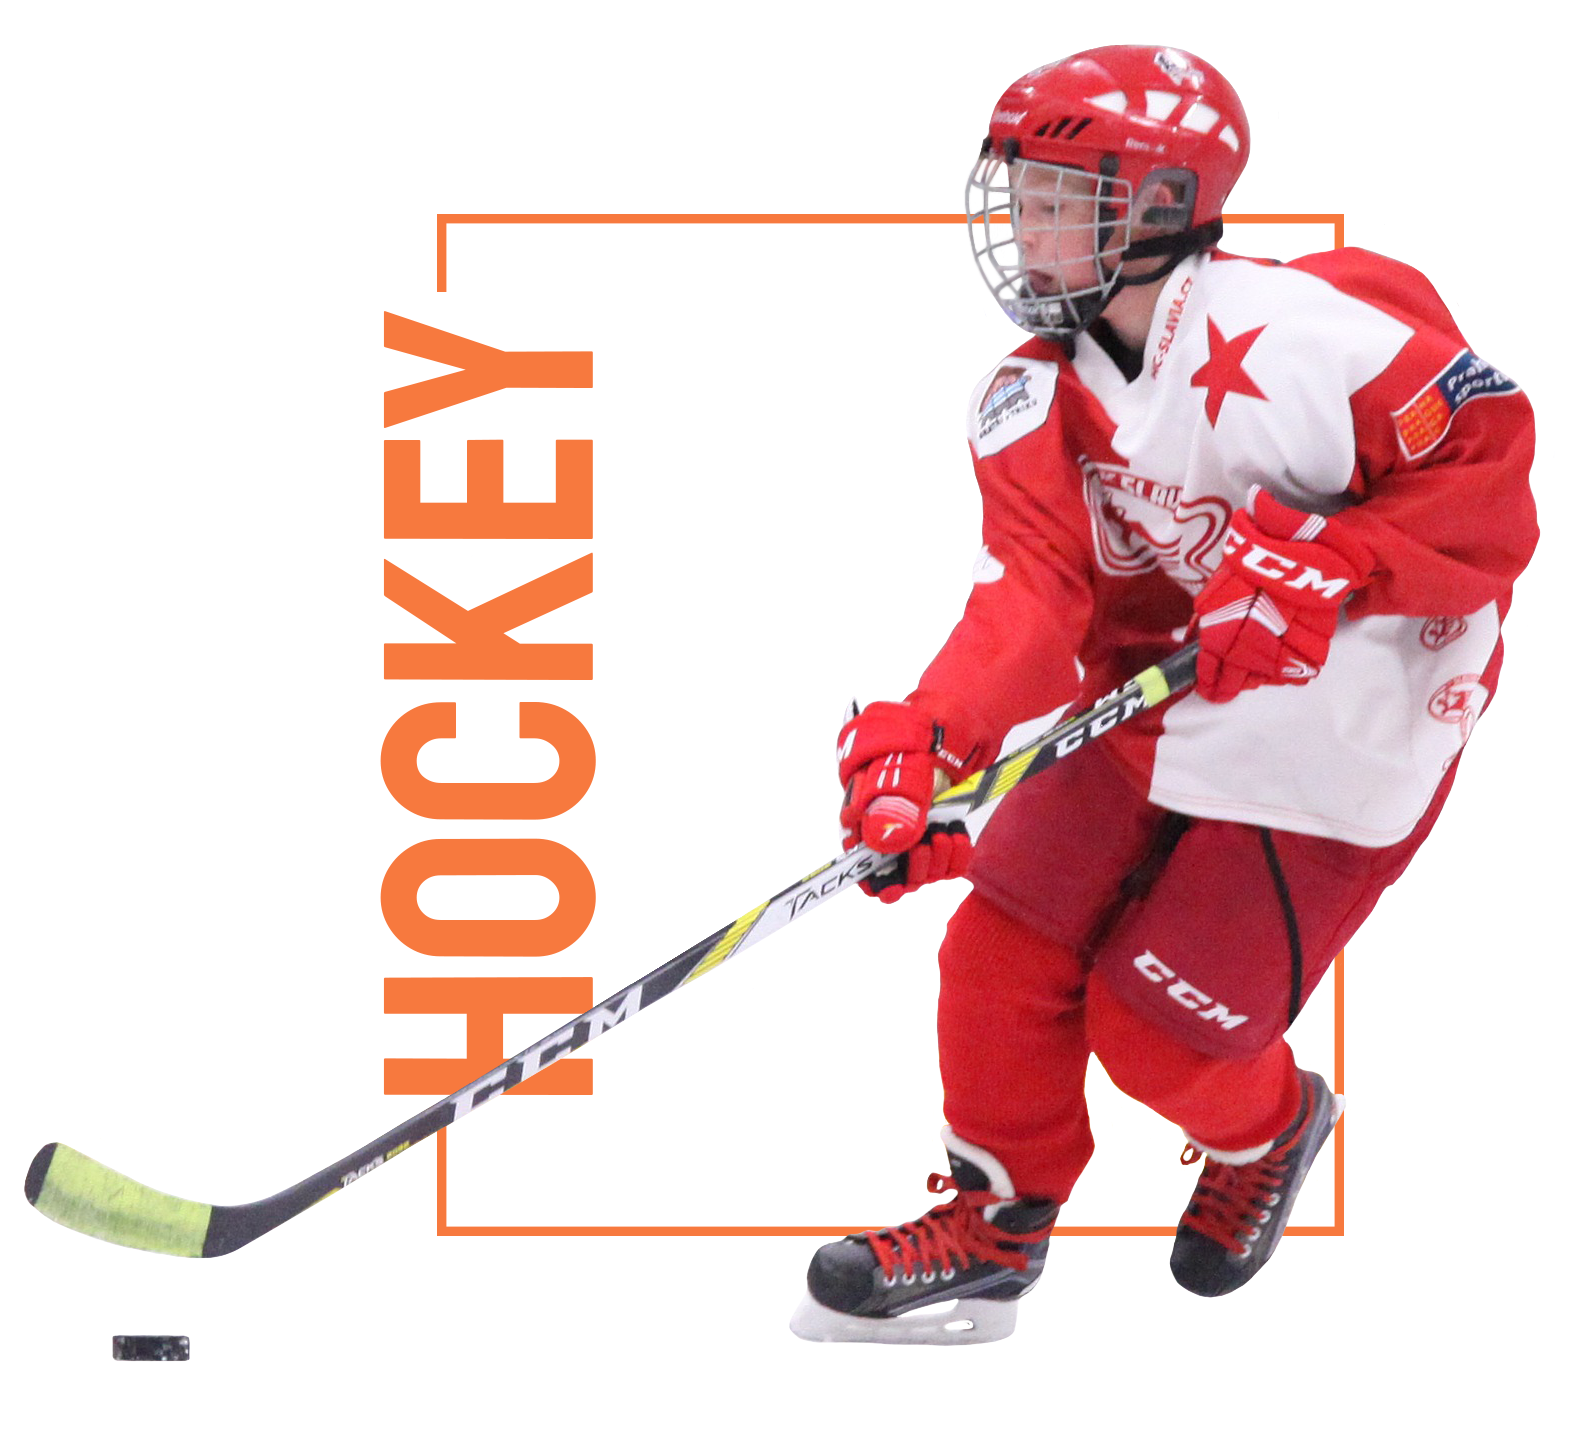
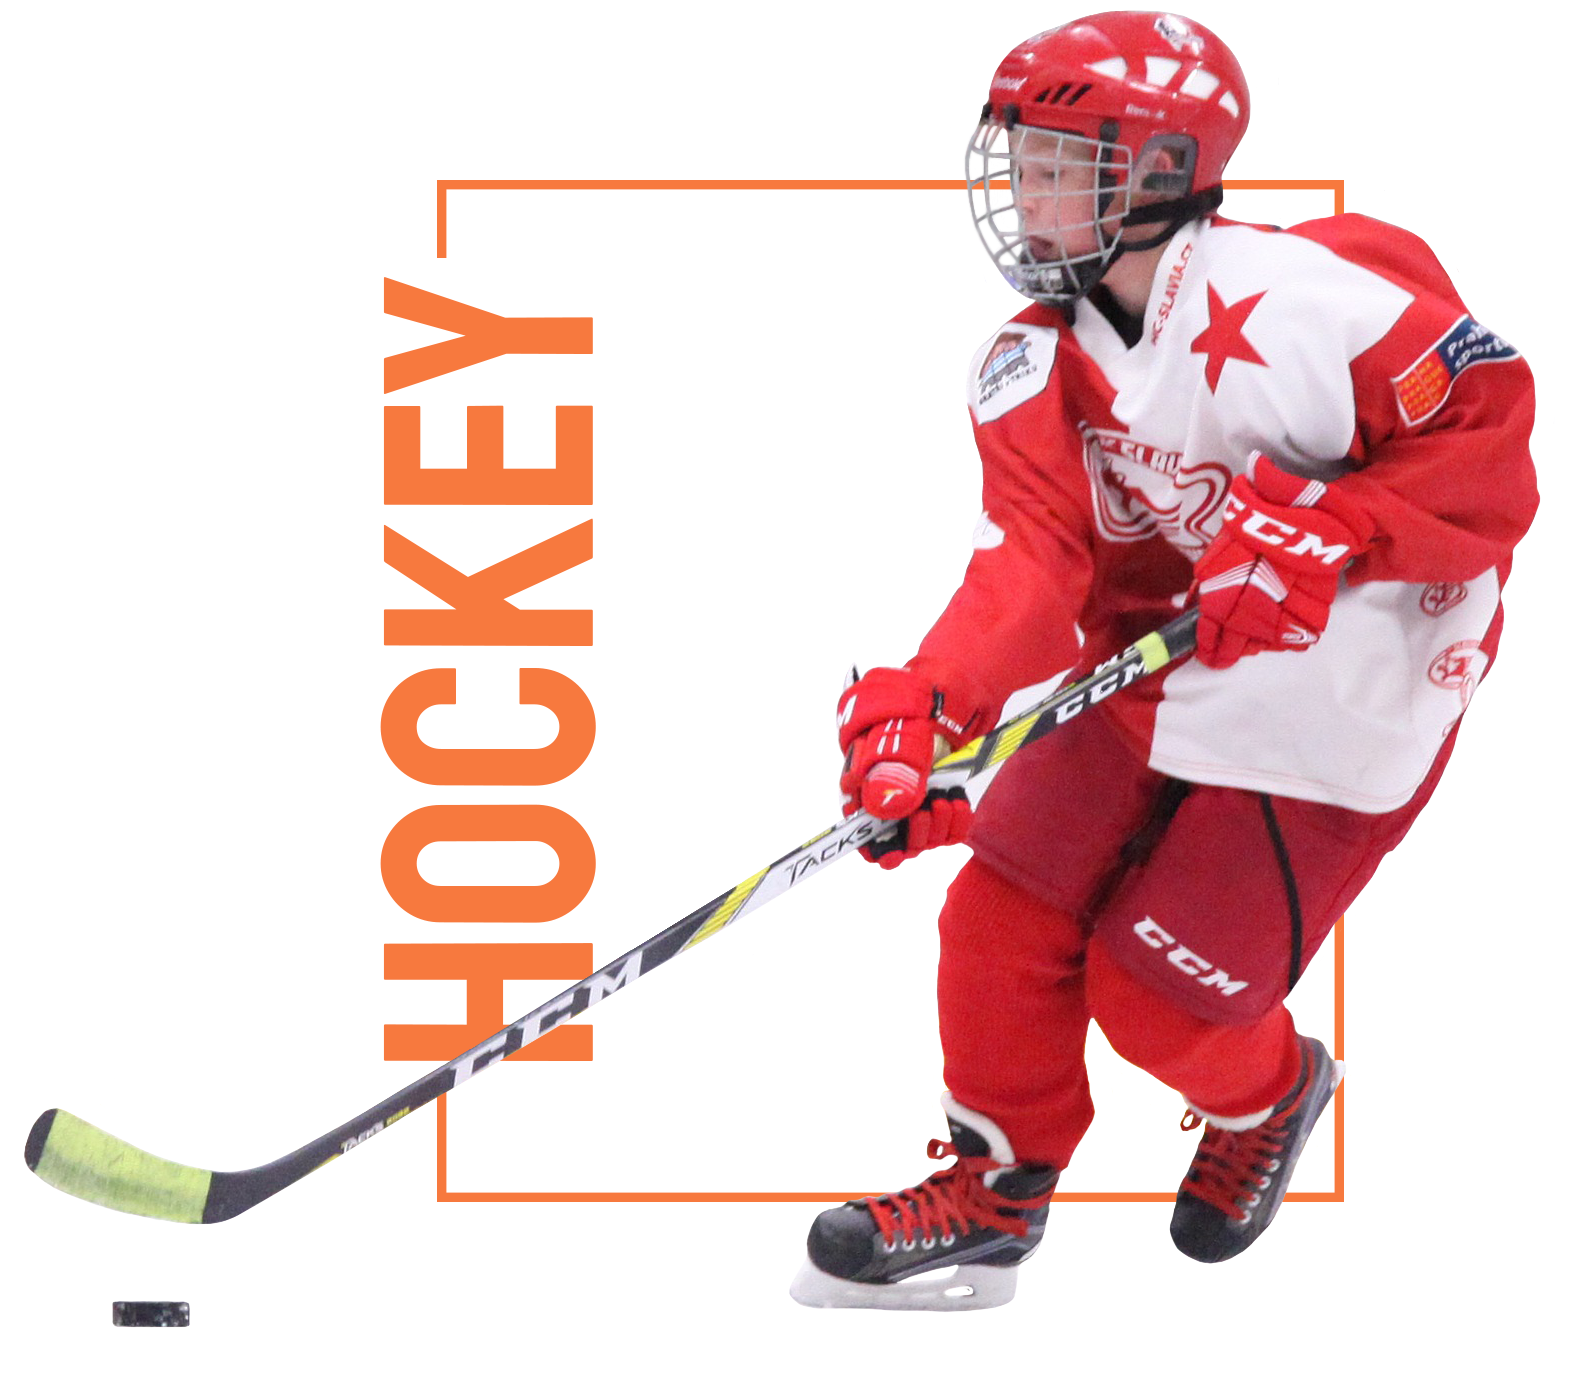
subida final

diff --git a/styles/style3.css b/styles/style3.css
@@ -411,6 +411,4 @@ form h5 {
     width: 650px;
     height: 600px;
     object-fit: contain;
-    position: absolute; 
-    top: 150px;
 }
